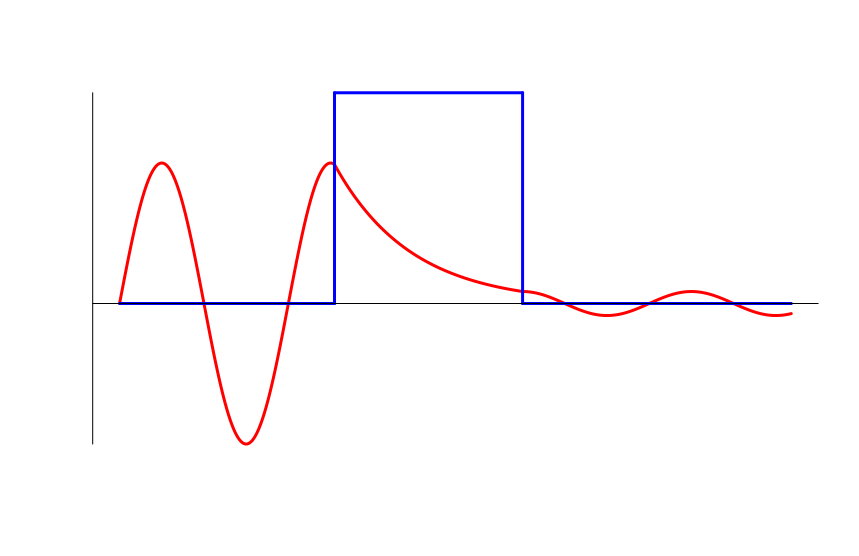
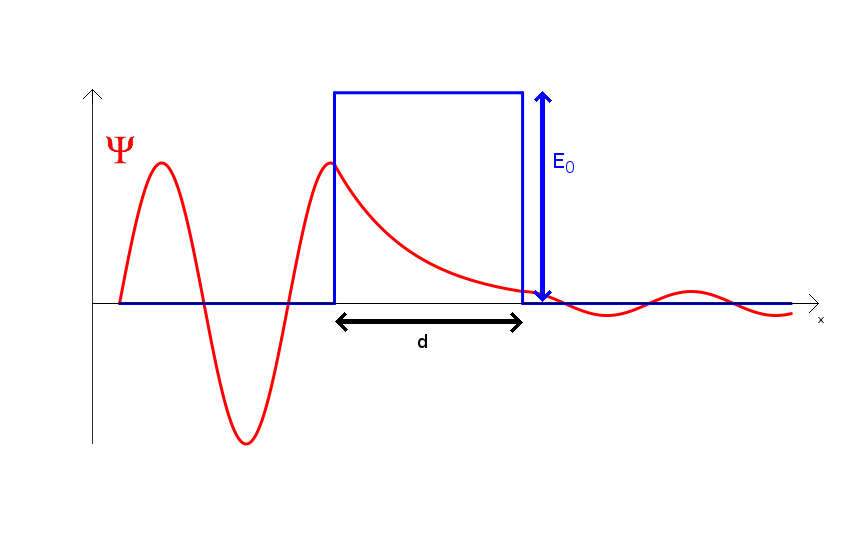
Hab Spaß damit, Saskia :D

Changed region(s): [[0.6054, 0.1529, 0.6659, 0.5504], [0.3935, 0.5504, 0.6054, 0.6421], [0.1211, 0.2446, 0.1513, 0.3058]]

diff --git a/rastertunnel.tex b/rastertunnel.tex
@@ -1,4 +1,4 @@
-\documentclass[12pt]{article}
+\documentclass[12pt,listof=totoc]{scrartcl}
 
 \usepackage{fancyhdr}
 \usepackage{geometry}
@@ -77,13 +77,25 @@
 	\end{minipage}
 	\vskip 30 pt
 }
-\newcommand{\graThree}[5][0.325]{
+\newcommand{\graThree}[5][0.49]{
 	\begin{minipage}[h!]{\textwidth}
 		\centering
 		\includegraphics[width=#1\textwidth]{figures/#2.png}
-		\includegraphics[width=#1\textwidth]{figures/#3.png}
+		\includegraphics[width=#1\textwidth]{figures/#3.png}\newline
 		\includegraphics[width=#1\textwidth]{figures/#4.png}
 		\captionof{figure}{#5}
+	\end{minipage}
+	\vskip 30 pt
+}
+\newcommand{\graFive}[7][0.49]{
+	\begin{minipage}[h!]{\textwidth}
+		\centering
+		\includegraphics[width=#1\textwidth]{figures/#2.png}
+		\includegraphics[width=#1\textwidth]{figures/#3.png}\newline
+		\includegraphics[width=#1\textwidth]{figures/#4.png}
+		\includegraphics[width=#1\textwidth]{figures/#5.png}
+		\includegraphics[width=#1\textwidth]{figures/#6.png}\newline
+		\captionof{figure}{#7}
 	\end{minipage}
 	\vskip 30 pt
 }
@@ -101,7 +113,9 @@
 \section*{Abstract}
 Das Rastertunnelmikroskop ist ein Bildgebungsinstrument zur Auflösung von atomaren Strukturen. Mit einem optischen Mikroskop lassen sich aufgrund der Wellenlängen des sichtbaren Lichtes nur Auflösungen bis ca. 200nm erreichen. Da Atomdurchmesser sich jedoch in der Größenordnung von $x=1\,\mathrm{\AA}=0.1\,\mathrm{nm}$ befinden, bedarf es hierzu einer deutlich besseren Auflösung. Das Rastertunnelmikroskop erreicht diese (im Bereich von $1\,\mathrm{\AA}$) durch Abfahren der Oberfläche in kleinen Schritten mit einer Spitze und Messen des Abstands durch Ausnutzen des quantenmechanischen Tunneleffekts.\\
 
-Mit dem Rastertunnelmikroskop lassen sich nur leitende Materialien untersuchen, da die Messung über einen Tunnelstrom zwischen Probe und Spitze funktioniert. In diesem Versuch untersuchen wir mit Hilfe eines Rastertunnelmikroskops Graphit, Molybdändisulfid und Gold. Aus den Bildern für Graphit berechnen wir die Gitterkonstante des Graphitkristalls. Die weiteren Ergebnisse werten wir qualitativ aus, um die Funktionsweise des Rastertunnelmikroskops zu verstehen. Außerdem untersuchen wir die Bilder auf Artefakte, die durch störende Einflüsse von außen oder Verunreinigungen und Fehler der Spitze oder des Materials entstehen.\\
+Mit dem Rastertunnelmikroskop lassen sich nur leitende Materialien untersuchen, da die Messung über einen Tunnelstrom zwischen Probe und Spitze funktioniert. Mit dem Rastertunnelmikroskop "`sieht"' man die Dichte der leitenden Elektronen eines Materials. In diesem Versuch wollen wir mit Hilfe eines Rastertunnelmikroskops Graphit, Molybdändisulfid und Gold untersuchen. Aus den Bildern für Graphit berechnen wir die Gitterkonstante des Graphitkristalls. Die weiteren Ergebnisse werten wir qualitativ aus, um die Funktionsweise des Rastertunnelmikroskops zu verstehen. Außerdem untersuchen wir die Bilder auf Artefakte, die durch störende Einflüsse von außen oder Verunreinigungen und Fehler der Spitze oder des Materials entstehen.\\
+
+Zum Untersuchen der Proben stellen wir die Messspitzen aus Platin-Iridium-Draht her. Es gelangen uns zwei Spitzen, mit denen wir die atomare Struktur von Graphit messen konnten. Allerdings konnten wir damit in Molybdän keine Struktur erkennen, weshalb eine Messung von Gold uns nicht möglich war.\\
 
 Als Ergebnis für die Gitterkonstante von Graphit erhielten wir:
 \begin{align*}
@@ -127,13 +141,13 @@ In diesem Versuch untersuchen wir die Eigenschaften eines Rastertunnelmikroskops
 \newpage
 \section{Theoretische Grundlagen}
 
-%Dieser Teil orientiert sich weitgehendst an \cite{staat}.
+Zum Verstehen dieses Versuchs empfiehlt es sich, gewisse theoretische Grundlagen verstanden zu haben. Im Folgenden finden sich die wichtigsten Grundlagen für diesen Versuch. Dieser Teil orientiert sich weitgehendst an \cite{staat}.
 
 \subsection{Quantenmechanischer Tunneleffekt}\label{tunnel}
 
-Wenn ein Teilchen der Energie $E$ auf eine Potentialbarriere trifft mit dem Potential $E_0$ mit $E_0>E$, wird das Teilchen im klassischen Modell komplett reflektiert und kann die Potentialbarriere nicht überwinden. In der Quantenmechanik ist der Ort des Teilchens nun nicht mehr eindeutig festgelegt, sondern wird durch eine Aufenthaltswahrscheinlichkeit $|\Psi|^2$ beschrieben. Die Wellenfunktion $\Psi$, welche die Aufenthaltswahrscheinlichkeit festlegt, wird für ein freies Teilchen im Allgemeinen durch eine Sinus-Funktion beschrieben. Die Aufenthaltswahrscheinlichkeit wird nun am Rand der Potentialbarriere nicht komplett null, sondern nimmt exponentiell ab. Bei genügend kleiner Breite $d$ der Potentialstufe besteht nun noch eine endliche Aufenthaltswahrscheinlichkeit für die Teilchen auf der anderen Seite der Potentialbarriere. Dies bedeutet, dass die Teilchen mit einer gewissen Wahrscheinlichkeitsdichte die Potentialbarriere überwinden können. Diesen Effekt nennt man Tunneleffekt.
+Wenn ein Teilchen der Energie $E$ auf eine Potentialbarriere trifft mit dem Potential $E_0$ mit $E_0>E$, wird das Teilchen im klassischen Modell komplett reflektiert und kann die Potentialbarriere nicht überwinden. In der Quantenmechanik ist der Ort des Teilchens nun nicht mehr eindeutig festgelegt, sondern wird durch eine Aufenthaltswahrscheinlichkeit $|\Psi|^2$ beschrieben. Die Wellenfunktion $\Psi$, welche die Aufenthaltswahrscheinlichkeit festlegt, wird für ein freies Teilchen im Allgemeinen durch eine Sinus-Funktion beschrieben. Die Aufenthaltswahrscheinlichkeit wird nun am Rand der Potentialbarriere nicht komplett null, sondern nimmt exponentiell ab. Bei genügend kleiner Breite $d$ der Potentialstufe besteht nun noch eine endliche Aufenthaltswahrscheinlichkeit für die Teilchen auf der anderen Seite der Potentialbarriere. Dies bedeutet, dass die Teilchen mit einer gewissen Wahrscheinlichkeitsdichte die Potentialbarriere überwinden können. Diesen Effekt nennt man Tunneleffekt. \textsuperscript{\cite{demtroeder3}}
 
-\gra{tunneleffekt}{Tunneln eines Teilchens mit Wellenfunktion \textcolor{red}{\textbf{$\Psi$}} am Rechteckpotential \textcolor{blue}{\textbf{$E_0$}} der Breite $d$}
+\gra{tunneleffekt}{Tunneln eines Teilchens mit Wellenfunktion \textcolor{red}{\textbf{$\Psi$}} am Rechteckpotential \textcolor{blue}{\textbf{$E_0$}} der Breite $d$. (Selbsterstellte Grafik, orientiert an \cite{demtroeder3})}
 
 \subsection{Tunnelstrom}
 
@@ -141,15 +155,18 @@ Wird die Spitze des Rastertunnelmikroskops in einen Abstand von $d\approx1\,nm$ 
 
 \subsection{Piezoelektrischer Effekt}\label{piezo}
 
-In piezoelektrischen Kristallen sind die Ionen so angeordnet, dass die Gesamtladung $Q=0$ ist. Wenn der Kristall deformiert wird, verschieben sich die Ionen und die Ladungsschwerpunkte im Kristall. Dadurch entsteht eine Spannung zwischen beiden Seiten des Kristalls, die linear von der deformierenden Kraft abhängt. Dies nennt sich piezoelektrischer Effekt.\\
+In piezoelektrischen Kristallen sind die Ionen so angeordnet, dass die Gesamtladung $Q=0$ ist. Wenn der Kristall deformiert wird, verschieben sich die Ionen und die Ladungsschwerpunkte im Kristall. Dadurch entsteht eine Spannung zwischen beiden Seiten des Kristalls, die linear von der deformierenden Kraft abhängt (siehe Abbildung \ref{piezobild}). Dies nennt sich piezoelektrischer Effekt.\\
+
+\gra[0.6]{piezo}{Veranschaulichung des piezoelektrischen Effekts\textsuperscript{\cite{piezo}}\label{piezobild}} 
 
 Ebenso gibt es den inversen piezoelektrischen Effekt. Eine von außen angelegte Spannung verändert die Anordnung der Ionen und bewirkt so eine Deformation des Kristalls. Durch die Spannung kann der Kristall ausgedehnt oder gestaucht werden.
 
 \subsection{Aufbau und Bedienmodi des Rastertunnelmikroskops}
 
-\gra{rtm}{Rastertunnelmikroskop\label{rtm}}
+\label{funktionsweise}
+\gra{rtm}{Rastertunnelmikroskop\label{rtm}\textsuperscript{\cite{anleitung}}}
 
-Das Rastertunnelmikroskop funktioniert über eine Platin-Iridium-Spitze, welche über ein Piezo-Element (siehe Kapitel \ref{piezo}) in $z$-Richtung bis auf wenige $\mathrm{\AA}$ an die Probe angenähert wird (siehe Abbildung \ref{rtm}). Zwischen Spitze und Probe wird eine Spannung angelegt, welche einen Tunnelstrom zwischen Spitze und Probe erzeugt (siehe Kapitel \ref{tunnelstrom}). Aus der Stärke des Tunnelstroms kann nun die Entfernung zwischen Probe und Spitze bestimmt werden. Mit zwei weiteren Piezo-Elementen in $x$- und $y$-Richtung wird die Spitze schrittweise über die Probe bewegt und damit das Oberflächenprofil der Probe aufgenommen.
+Das Rastertunnelmikroskop funktioniert über eine Platin-Iridium-Spitze, welche über ein Piezo-Element (siehe Kapitel \ref{piezo}) in $z$-Richtung bis auf wenige $\mathrm{\AA}$ an die Probe angenähert wird (siehe Abbildung \ref{rtm}). Zwischen Spitze und Probe wird eine Spannung angelegt, welche einen Tunnelstrom zwischen Spitze und Probe erzeugt (siehe Kapitel \ref{tunnelstrom}). Aus der Stärke des Tunnelstroms kann nun die Entfernung zwischen Probe und Spitze bestimmt werden. Mit zwei weiteren Piezo-Elementen in $x$- und $y$-Richtung wird die Spitze schrittweise über die Probe bewegt und damit das Oberflächenprofil der Probe aufgenommen. Das Rastertunnelmikroskop besitzt außerdem einen Schrittmotor, welcher die Entfernung zwischen Spitze und Probe in groben Schritten verändern kann.
 
 \paragraph{Constant Height Mode}
 
@@ -174,9 +191,9 @@ Halbmetalle gehören zu den Halbleitern, haben jedoch eine sehr kleine Bandlück
 \subsection{Materialien unter dem Rastertunnelmikroskop}
 
 \subsubsection{Graphit}
-\gra[0.25]{graphit}{Kristallstruktur von Graphit\textsuperscript{\cite{anleitung}}\label{graphitstruktur}}
+\gra{graphit}{Kristallstruktur von Graphit\textsuperscript{\cite{anleitung}}\label{graphitstruktur}}
 
-Graphit ist ein Halbmetall und besitzt eine hexagonale Kristallstruktur in mehreren Ebenen, wobei die Ebenen zueinander versetzt sind (siehe Abbildung \ref{graphitstruktur}).
+Graphit ist ein Halbmetall und besitzt eine hexagonale Kristallstruktur in mehreren Ebenen, wobei die Ebenen zueinander versetzt sind (siehe Abbildung \ref{graphitstruktur}). Dabei werden die Elektronen, die ein direkt benachbartes Atom in der darunterliegenden Ebene haben, als $\alpha$-Atome bezeichnet und die übrigen als $\beta$-Atome. Da die Elektronen eines $\alpha$-Atoms auch mit dem darunterliegenden $\alpha$-Atom koppeln, tragen hauptsächlich die Elektronen der $\beta$-Atome zum Tunnelstrom bei. Deshalb sind im Wesentlichen nur die $\beta$-Atome im Elektronenmikroskop sichtbar.
 
 \subsubsection{Molybdändisulfid}
 \gra{molybdaen}{Struktur von Molybdändisulfid\textsuperscript{\cite{mol1}\cite{mol2}\label{molybdaen}}}
@@ -184,40 +201,45 @@ Molybdändisulfid ($\mathrm{MoS}_2$) hat die in Abbildung \ref{molybdaen} gezeig
 
 \subsubsection{Gold}
 \gra{gold}{Kristallstruktur von Gold\textsuperscript{\cite{kittel}\label{gold}}}
-Gold ist ein Metall und ist also immer leitend. Die Kristallstruktur ist in Abbuldig \ref{gold} zu sehen. Allerdings ist Gold unter dem Rastertunnelmikroskop nur sehr schwer zu erkennen, da es in Luft sehr leicht verunreinigt wird. Um gute Bilder von Gold zu erhalten, müsste man das Rastertunnelmikroskop im Vakuum betreiben, was in diesem Versuch jedoch nicht gemacht wird.
+Gold ist ein Metall und ist also immer leitend. Die Kristallstruktur ist in Abbildung \ref{gold} zu sehen. Allerdings ist Gold unter dem Rastertunnelmikroskop nur sehr schwer zu erkennen, da es in Luft sehr leicht verunreinigt wird. Um gute Bilder von Gold zu erhalten, müsste man das Rastertunnelmikroskop im Vakuum betreiben, was in diesem Versuch jedoch nicht gemacht wird.
 
 
 \newpage
 \section{Versuchsaufbau}\label{aufbau}
-
-
+\gra{aufbau}{Schematische Zeichnung des Versuchsaufbaus\textsuperscript{\cite{demtroeder3}}}
+Der Versuch besteht aus einem Rastertunnelmikroskop, der dazugehörigen Steuerungseinheit und einem Computer. Das Rastertunnelmikroskop selbst besteht, wie in Kapitel \ref{funktionsweise} beschrieben, aus drei Piezo-Elementen und der Spitze. Außerdem befindet sich über dem Rastertunnelmikroskop ein Glasdeckel mit Lupe, um die Spitze beobachten zu können. Auf dem Computer läuft die Steuerungssoftware \emph{EasyScan 2} des Rastertunnelmikroskops.
 
 \newpage
 \section{Durchführung}\label{durchfuehrung}
+Um ein Bild mit dem Rastertunnelmikroskop aufzeichnen zu können, benötigen wir eine Messspitze. Diese stellen wir aus Platin-Iridium-Draht her. Dazu benutzen wir eine Zange, mit der wir den Draht festhalten und eine weitere, mit der wir in einem möglich spitzen Winkel den Draht abreißen, um eine möglichst feine Spitze herzustellen. Da es mit diesem Verfahren schwierig ist, eine optimale Spitze herzustellen, erwarten wir viele Artefakte, z.B. durch schlechte Spitzen. Ebenso tragen Verschmutzungen der Spitze oder der Probe zu möglicher Artefaktbildung bei.\\
 
+Die so hergestellte Messspitze und die zu betrachtende Probe legen wir in das Rastertunnelmikroskop ein. Wir beginnen mit der Graphitprobe, da diese am einfachsten zu messen ist. Nun führen wir die Probe mit dem Schrittmotor so nah an die Spitze heran, wie man mit Hilfe der Lupe noch erkennen kann, dass die Spitze die Probe nicht berührt. Wenn die Spitze die Probe berührt wird sie vermutlich durch den Kontakt zerstört. Durch das Computerprogramm erfolgt nun die Feinannäherung der Spitze an die Probe. \\
 
+Ist die Feinnäherung erfolgt, beginnt das Programm, die Probe mit der Spitze abzurastern und das Oberflächenprofil zu erstellen. Die Bildgröße lässt sich hierbei einstellen. Zu Anfang stellen wir die Bildgröße immer auf $500\,$nm Breite und Höhe. Dann suchen wir uns einen homogenen Bereich  aus und nehmen diesen auf. Wenn kein farbiges Bild erzeugt wird, hat die Feinannäherung keinen Erfolg gehabt, was möglicherweise an der Qualität der Spitze liegt. Dann probieren wir die Feinannäherung erneut und verwerfen nach einigen Fehlversuchen die Messspitze.\\
+
+Wir wiederholen dieses Verfahren so oft, bis wir die Atomstruktur von Graphit erkennen können. Zur Verbesserung der Bilder lassen sich die Einstellungen der Steuerelektronik anpassen. Wenn wir nun ein gutes Bild für Graphit erhalten haben, tauschen wir die Graphitprobe durch Molybdändisulfid und anschließend Gold aus und versuchen, für diese Materialien eine atomare Auflösung zu erhalten.
 \newpage
 \section{Auswertung}
 \newpage
 \section{Zusammenfassung und Diskussion}
 \label{diskussion}
 
-\newpage
-\section{Anhang}
+%\newpage
+%\section{Anhang}
 
-\subsection{Grafiken}\label{bilder}
-
-
+%\subsection{Grafiken}\label{bilder}
 
 
-\subsection{Tabellen}\label{tabellen}
+
+
+%\subsection{Tabellen}\label{tabellen}
 
 
 %\newpage
 %\subsection{Quellcode (MATLAB)}
 %\lstinputlisting[language=MATLAB]{Rohdaten/alpha.m}
-\clearpage
-\subsection{Quellcode (R)}
+%\clearpage
+%\subsection{Quellcode (R)}
 %\subsubsection{\code{auswertung.R}}\label{auswertungR}
 %\lstinputlisting[language=R]{r-files/auswertung.R}
 
@@ -282,6 +304,9 @@ Ch. Kittel,\\
 Oldenbourg Verlag München,\\
 14. Auflage, 2006
 
+\bibitem{piezo}
+\emph{http://www.piezoeffekt.de/2crystals.php},\\
+Stand: 13.10.2016
 
 \end{thebibliography}
 
